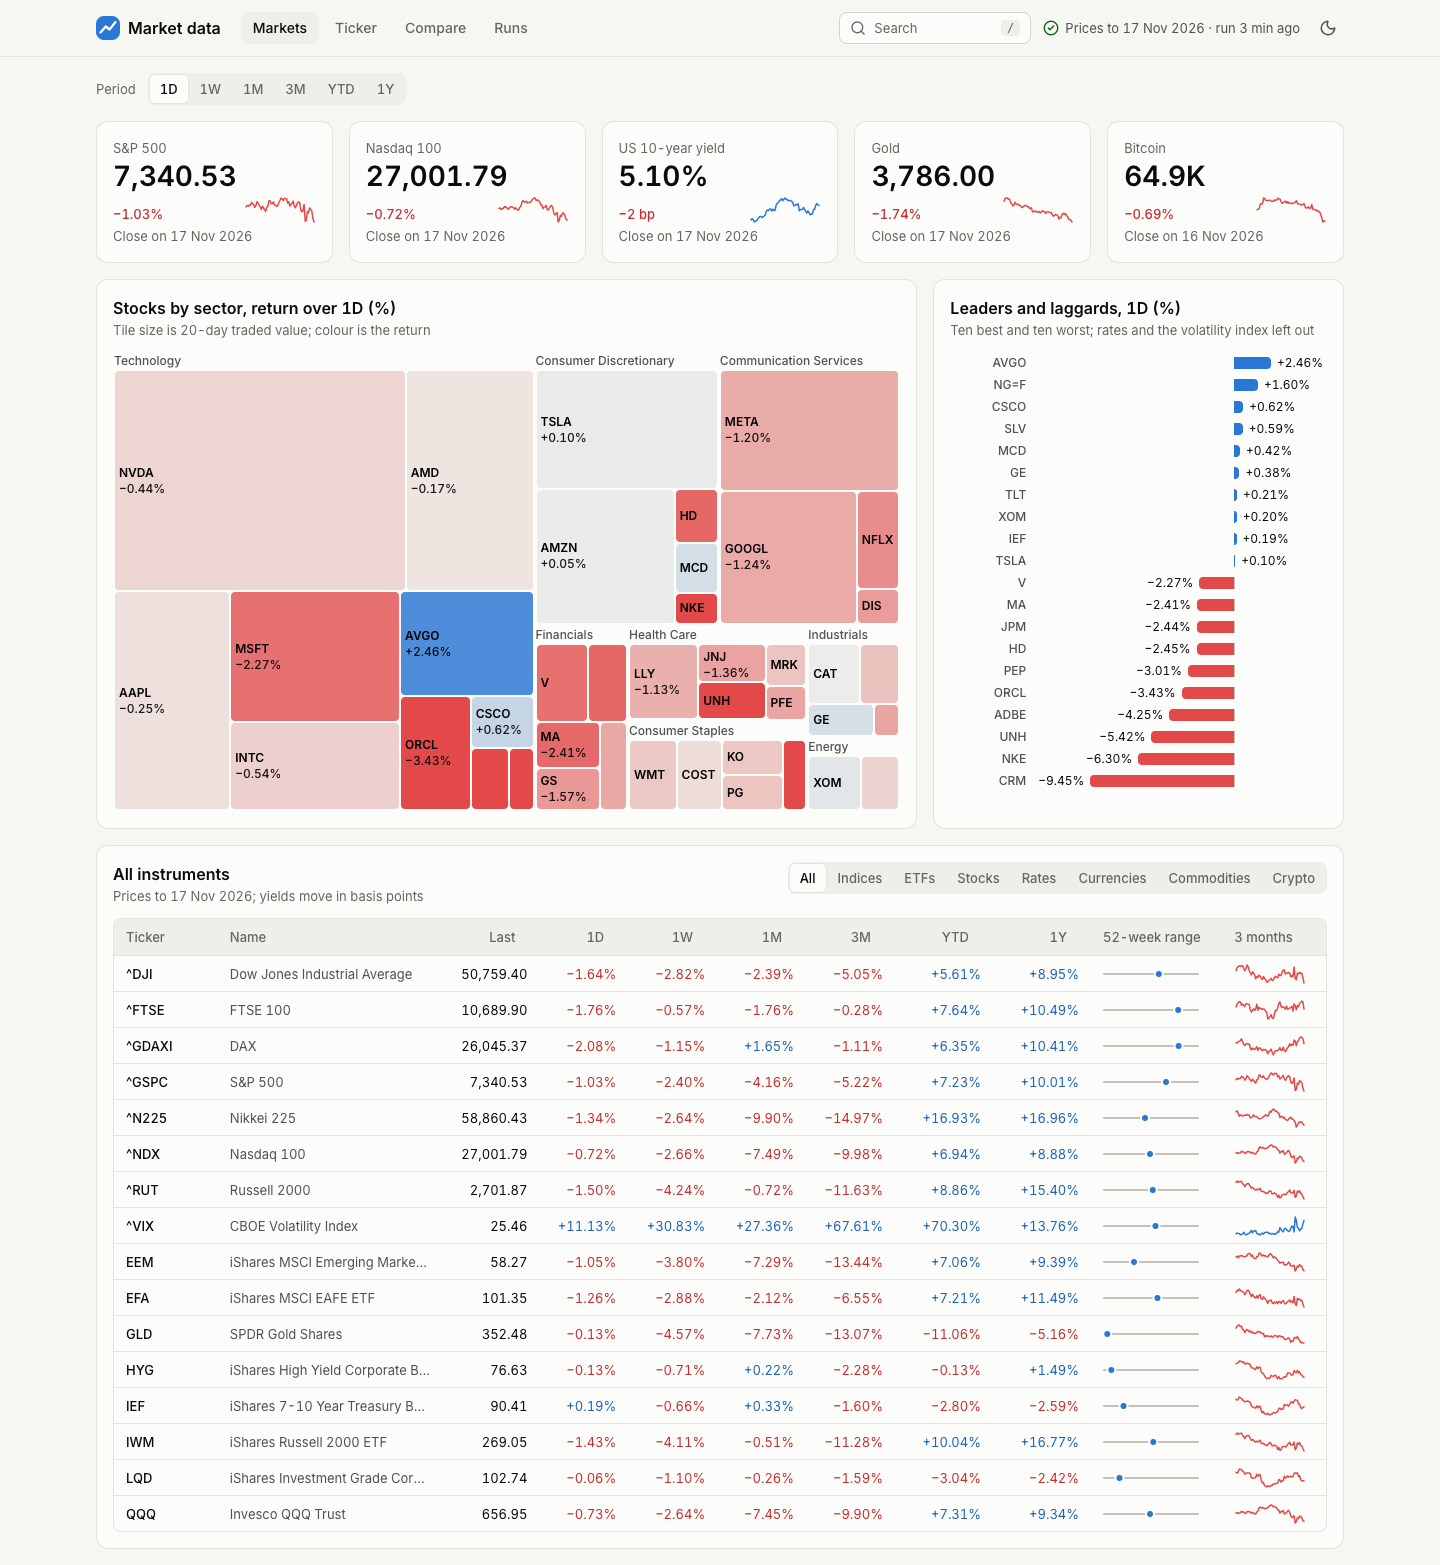
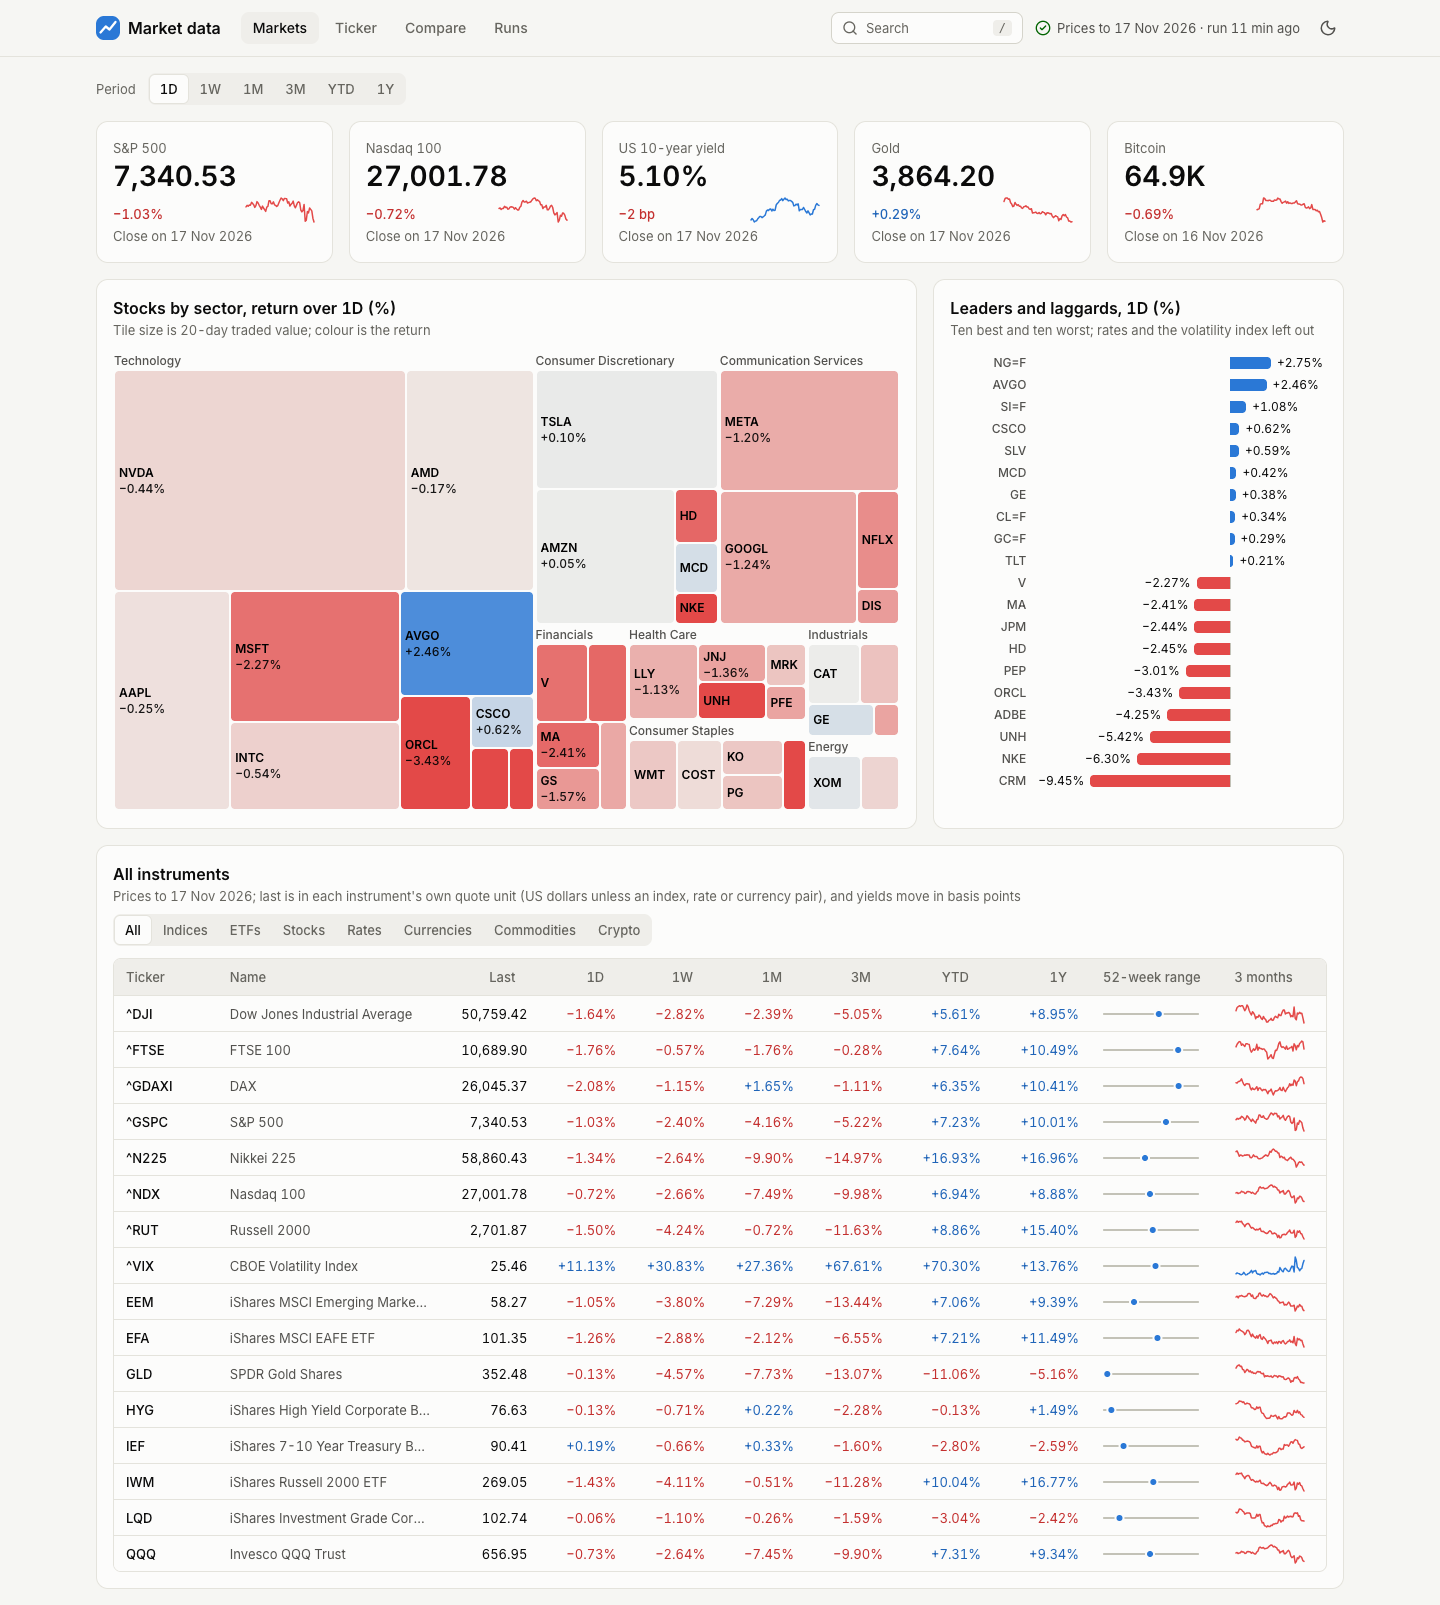
docs: README for the deployed API, fresh screenshot, teardown

diff --git a/README.md b/README.md
@@ -3,6 +3,7 @@
 A nightly job that fetches daily prices for about ninety instruments from Yahoo Finance with `yfinance`, stores them in MotherDuck, and shows them on a dashboard that reads the store live through a small API; a throwaway end-to-end test.
 
 **Live dashboard: <https://henrymckay.github.io/market-data-public/>**
+**Live API: <https://market-data-api.henrymckay.workers.dev/>** (its docs page)
 
 ![The Markets screen: five headline tiles, a sector treemap, leaders and laggards, and the table of every instrument](docs/screenshot.png)
 
@@ -30,8 +31,12 @@ MARKET_DATA_DATABASE=/tmp/market.duckdb uv run market-data-cli fetch AAPL MSFT
 - `fetch`, `compute` and `nightly` print the manifest rows as CSV with one header, one row per stage; logs, including each failed instrument by name, go to standard error.
 - Exit codes: 0 every instrument stored, 1 any `partial` or `failed`, 2 a usage or configuration error such as a missing token.
 
-`.github/workflows/nightly.yml` runs at 02:17 UTC every day and on demand, in one job: `nightly`, then `status`; it holds the repository secret `MOTHERDUCK_TOKEN` (as `motherduck_token`).
-`.github/workflows/site.yml` builds `web/` and publishes it to GitHub Pages on a push to `main` that touches `web/`, once the repository variable `API_URL` names the API.
+`.github/workflows/nightly.yml` runs at 02:17 UTC every day and on demand.
+Its `nightly` job runs `nightly`, then `status`, and holds the repository secret `MOTHERDUCK_TOKEN` (as `motherduck_token`).
+Its `warm` job holds no secret: it waits up to 20 minutes for `/api/latest` to reach the run, then requests `/api/overview`, `/api/runs` and every `/api/bars/{slug}` so no visitor waits on a cache miss, and fails on any status but 200.
+`.github/workflows/site.yml` builds `web/` and publishes it to GitHub Pages on a push to `main` that touches `web/`, with `VITE_API_URL` from the repository variable `API_URL`.
+`.github/workflows/api.yml` tests the Worker on every push touching `api/` and deploys it from `main` with the repository secrets `CLOUDFLARE_API_TOKEN`, `CLOUDFLARE_ACCOUNT_ID` and `MOTHERDUCK_API_TOKEN` (the read-only service account's token, uploaded as the Worker secret `MOTHERDUCK_TOKEN`).
+`.github/workflows/verify-secrets.yml`, run by hand, counts each token in every run log, the published site and a `wrangler tail` session, and prints only the counts.
 
 Run it by hand with `gh workflow run nightly.yml --ref main`.
 
@@ -57,7 +62,28 @@ Four screens: Markets, Ticker, Compare and Runs; every view is a link (`?view=ti
 
 ## API
 
-`api/` is a Cloudflare Worker that answers the dashboard's four reads (`/api/latest`, `/api/overview`, `/api/runs`, `/api/bars/{slug}`) from MotherDuck through a cache, with a docs page at `/`; it is built and tested but not deployed yet, and the dashboard on `main` still reads the files the old export published until the front end on the API is merged and deployed.
+`api/` is a Cloudflare Worker, <https://market-data-api.henrymckay.workers.dev/>, that answers the dashboard's reads from MotherDuck through a cache (Workers KV, keyed by the last stored run, refreshed by a cron every 15 minutes).
+It is read-only: its MotherDuck user is a service account that sees `market_data` only through a read-only share.
+The root path is the docs page.
+
+| Method | Path | Returns |
+|---|---|---|
+| GET | `/api/latest` | the last stored `yahoo` run, or `null` |
+| GET | `/api/overview` | one object per instrument: identity, coverage, every metric, a 63-bar sparkline |
+| GET | `/api/runs` | the last 90 runs, newest first |
+| GET | `/api/bars/{slug}` | one instrument's whole history, oldest first, as columns |
+
+```bash
+curl -s https://market-data-api.henrymckay.workers.dev/api/latest
+```
+
+```json
+{"day":"2026-11-17","ended":"2026-11-18T06:39:02Z","outcome":"stored","rows":833631}
+```
+
+An unknown slug is `404` with `{"error": "...", "code": "not_found"}`; MotherDuck being unreachable is `503` with `Retry-After`.
+Only the dashboard's origin gets CORS headers.
+
 Run it locally against the store, the token going from the keychain into that one process and nowhere else:
 
 ```bash
@@ -120,4 +146,16 @@ security delete-generic-password -a "$USER" -s motherduck-token   # the local co
 ```
 
 Then revoke the token in MotherDuck's settings (Settings, Access tokens), since the repository secret held a copy of it.
+
+The API adds its own pieces, which `gh repo delete` does not reach:
+
+```bash
+motherduck_token="$(security find-generic-password -a "$USER" -s motherduck-token -w)" \
+  duckdb md: -c "drop share market_data_api"              # the read-only share
+curl -X DELETE https://api.motherduck.com/v1/users/market_data_api \
+  -H "Authorization: Bearer $(security find-generic-password -a "$USER" -s motherduck-token -w)"   # the service account and its token
+```
+
+- Delete the Worker `market-data-api` and the KV namespace `market-data-api-cache` in the Cloudflare dashboard (Workers & Pages), or with `npx wrangler login` and `npx wrangler delete` in `api/`.
+- Revoke the Cloudflare API token under My Profile, API Tokens.
 The schedule is disabled by GitHub after 60 days without repository activity, so a forgotten copy stops itself.
